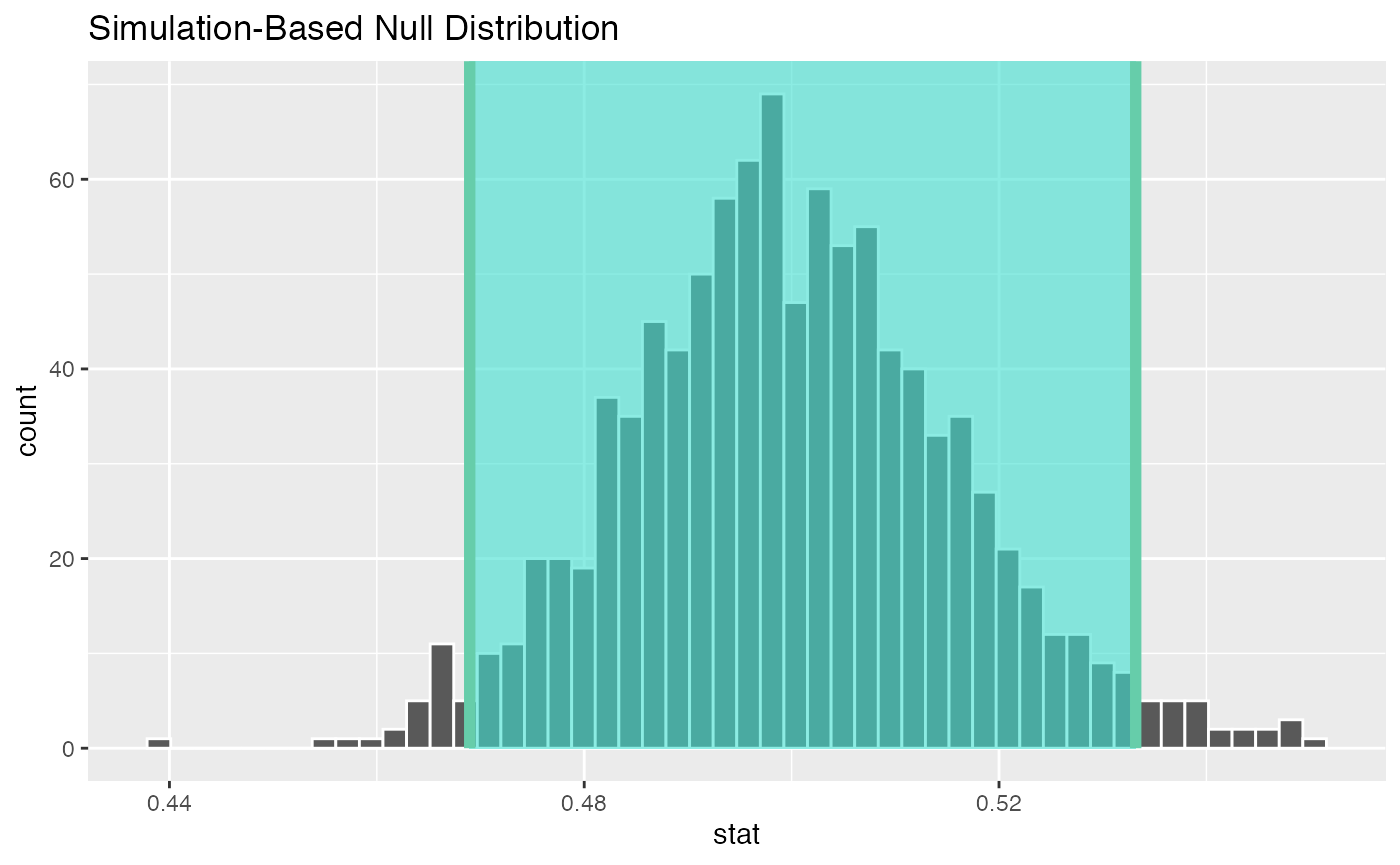
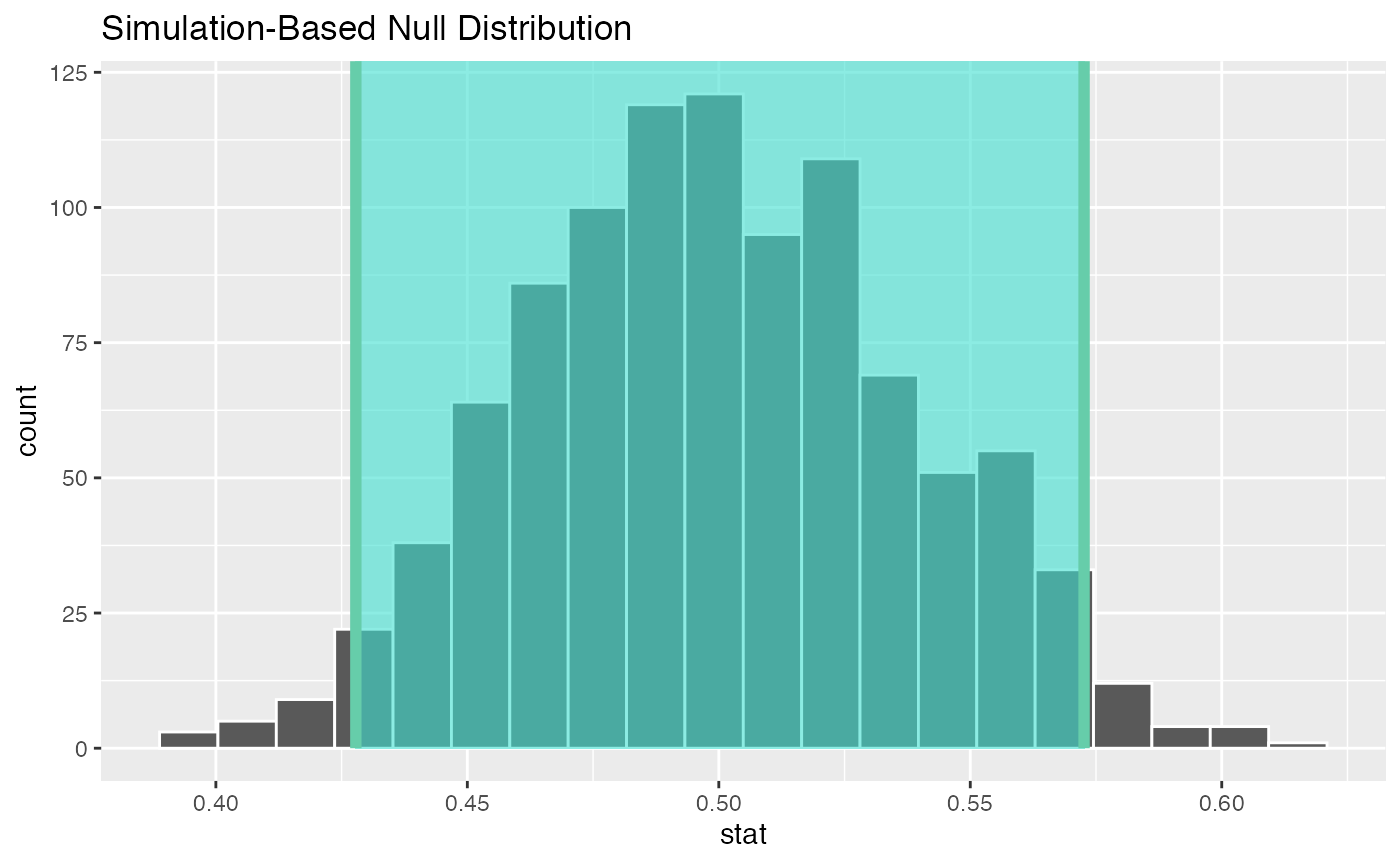
infer to doc

diff --git a/docs/articles/infer.html b/docs/articles/infer.html
@@ -5,13 +5,13 @@
 <meta charset="utf-8">
 <meta http-equiv="X-UA-Compatible" content="IE=edge">
 <meta name="viewport" content="width=device-width, initial-scale=1.0">
-<title>infer • mariatidymodels</title>
+<title>Diving into infer • mariatidymodels</title>
 <!-- jquery --><script src="https://cdnjs.cloudflare.com/ajax/libs/jquery/3.4.1/jquery.min.js" integrity="sha256-CSXorXvZcTkaix6Yvo6HppcZGetbYMGWSFlBw8HfCJo=" crossorigin="anonymous"></script><!-- Bootstrap --><link rel="stylesheet" href="https://cdnjs.cloudflare.com/ajax/libs/twitter-bootstrap/3.4.1/css/bootstrap.min.css" integrity="sha256-bZLfwXAP04zRMK2BjiO8iu9pf4FbLqX6zitd+tIvLhE=" crossorigin="anonymous">
 <script src="https://cdnjs.cloudflare.com/ajax/libs/twitter-bootstrap/3.4.1/js/bootstrap.min.js" integrity="sha256-nuL8/2cJ5NDSSwnKD8VqreErSWHtnEP9E7AySL+1ev4=" crossorigin="anonymous"></script><!-- bootstrap-toc --><link rel="stylesheet" href="../bootstrap-toc.css">
 <script src="../bootstrap-toc.js"></script><!-- Font Awesome icons --><link rel="stylesheet" href="https://cdnjs.cloudflare.com/ajax/libs/font-awesome/5.12.1/css/all.min.css" integrity="sha256-mmgLkCYLUQbXn0B1SRqzHar6dCnv9oZFPEC1g1cwlkk=" crossorigin="anonymous">
 <link rel="stylesheet" href="https://cdnjs.cloudflare.com/ajax/libs/font-awesome/5.12.1/css/v4-shims.min.css" integrity="sha256-wZjR52fzng1pJHwx4aV2AO3yyTOXrcDW7jBpJtTwVxw=" crossorigin="anonymous">
 <!-- clipboard.js --><script src="https://cdnjs.cloudflare.com/ajax/libs/clipboard.js/2.0.6/clipboard.min.js" integrity="sha256-inc5kl9MA1hkeYUt+EC3BhlIgyp/2jDIyBLS6k3UxPI=" crossorigin="anonymous"></script><!-- headroom.js --><script src="https://cdnjs.cloudflare.com/ajax/libs/headroom/0.11.0/headroom.min.js" integrity="sha256-AsUX4SJE1+yuDu5+mAVzJbuYNPHj/WroHuZ8Ir/CkE0=" crossorigin="anonymous"></script><script src="https://cdnjs.cloudflare.com/ajax/libs/headroom/0.11.0/jQuery.headroom.min.js" integrity="sha256-ZX/yNShbjqsohH1k95liqY9Gd8uOiE1S4vZc+9KQ1K4=" crossorigin="anonymous"></script><!-- pkgdown --><link href="../pkgdown.css" rel="stylesheet">
-<script src="../pkgdown.js"></script><meta property="og:title" content="infer">
+<script src="../pkgdown.js"></script><meta property="og:title" content="Diving into infer">
 <meta property="og:description" content="mariatidymodels">
 <!-- mathjax --><script src="https://cdnjs.cloudflare.com/ajax/libs/mathjax/2.7.5/MathJax.js" integrity="sha256-nvJJv9wWKEm88qvoQl9ekL2J+k/RWIsaSScxxlsrv8k=" crossorigin="anonymous"></script><script src="https://cdnjs.cloudflare.com/ajax/libs/mathjax/2.7.5/config/TeX-AMS-MML_HTMLorMML.js" integrity="sha256-84DKXVJXs0/F8OTMzX4UR909+jtl4G7SPypPavF+GfA=" crossorigin="anonymous"></script><!--[if lt IE 9]>
 <script src="https://oss.maxcdn.com/html5shiv/3.7.3/html5shiv.min.js"></script>
@@ -54,7 +54,7 @@
   </a>
   <ul class="dropdown-menu" role="menu">
 <li>
-      <a href="../articles/infer.html">infer</a>
+      <a href="../articles/infer.html">Diving into infer</a>
     </li>
     <li>
       <a href="../articles/rsample.html">rsample</a>
@@ -78,7 +78,7 @@
       </header><script src="infer_files/header-attrs-2.6/header-attrs.js"></script><div class="row">
   <div class="col-md-9 contents">
     <div class="page-header toc-ignore">
-      <h1 data-toc-skip>infer</h1>
+      <h1 data-toc-skip>Diving into infer</h1>
             
       
       
@@ -89,10 +89,54 @@
     
     
 <div class="sourceCode" id="cb1"><pre class="downlit sourceCode r">
-<code class="sourceCode R"><span class="kw"><a href="https://rdrr.io/r/base/library.html">library</a></span><span class="op">(</span><span class="va">mariatidymodels</span><span class="op">)</span></code></pre></div>
+<code class="sourceCode R"><span class="kw"><a href="https://rdrr.io/r/base/library.html">library</a></span><span class="op">(</span><span class="va">mariatidymodels</span><span class="op">)</span>
+<span class="kw"><a href="https://rdrr.io/r/base/library.html">library</a></span><span class="op">(</span><span class="va"><a href="https://dplyr.tidyverse.org">dplyr</a></span><span class="op">)</span>
+<span class="kw"><a href="https://rdrr.io/r/base/library.html">library</a></span><span class="op">(</span><span class="va"><a href="https://github.com/tidymodels/infer">infer</a></span><span class="op">)</span></code></pre></div>
+<div id="exploring-infer" class="section level3">
+<h3 class="hasAnchor">
+<a href="#exploring-infer" class="anchor"></a>Exploring infer</h3>
+<p>The most useful verbs in infer to ply with statistical inference are:</p>
+<ul>
+<li>
+<code><a href="https://infer.tidymodels.org/reference/specify.html">specify()</a></code> specifies the variable, or relationship between variables, of interest</li>
+<li>
+<code><a href="https://infer.tidymodels.org/reference/hypothesize.html">hypothesize()</a></code> declare the null hypothesis. It can be independence of two variables or a mean number.</li>
+<li>
+<code><a href="https://infer.tidymodels.org/reference/generate.html">generate()</a></code> generates resamples</li>
+<li>
+<code><a href="https://infer.tidymodels.org/reference/calculate.html">calculate()</a></code> calculates summary estatistics taking as input from hypothesize() or generate()</li>
+</ul>
+<p>Let’s generate some random datapoints with beta distribution</p>
 <div class="sourceCode" id="cb2"><pre class="downlit sourceCode r">
-<code class="sourceCode R"><span class="fu"><a href="../reference/simulator.html">simulator</a></span><span class="op">(</span><span class="op">)</span></code></pre></div>
+<code class="sourceCode R"><span class="fu"><a href="https://rdrr.io/r/base/Random.html">set.seed</a></span><span class="op">(</span><span class="fl">123</span><span class="op">)</span>
+<span class="va">transcript</span> <span class="op">&lt;-</span> <span class="fu"><a href="https://tibble.tidyverse.org/reference/tibble.html">tibble</a></span><span class="op">(</span>
+    name   <span class="op">=</span> <span class="fu"><a href="https://rdrr.io/r/base/sample.html">sample</a></span><span class="op">(</span><span class="va">letters</span>,<span class="fl">25</span><span class="op">)</span>,
+    cor   <span class="op">=</span> <span class="fu"><a href="https://rdrr.io/r/stats/Beta.html">rbeta</a></span><span class="op">(</span><span class="fl">25</span>,<span class="fl">1</span>,<span class="fl">3</span><span class="op">)</span><span class="op">)</span></code></pre></div>
+<p>Let’s calculate the mean of this distribution</p>
+<div class="sourceCode" id="cb3"><pre class="downlit sourceCode r">
+<code class="sourceCode R"><span class="va">cor_mean</span> <span class="op">&lt;-</span> <span class="va">transcript</span> <span class="op">%&gt;%</span>
+    <span class="fu"><a href="https://infer.tidymodels.org/reference/specify.html">specify</a></span><span class="op">(</span>response <span class="op">=</span> <span class="va">cor</span><span class="op">)</span> <span class="op">%&gt;%</span>
+    <span class="fu"><a href="https://infer.tidymodels.org/reference/calculate.html">calculate</a></span><span class="op">(</span>stat <span class="op">=</span> <span class="st">"mean"</span><span class="op">)</span></code></pre></div>
+<p>The problem at task is to determine which of those correlations is statistically significant.</p>
+<div class="sourceCode" id="cb4"><pre class="downlit sourceCode r">
+<code class="sourceCode R"><span class="va">null_distn</span> <span class="op">&lt;-</span> <span class="va">transcript</span> <span class="op">%&gt;%</span>
+    <span class="fu"><a href="https://infer.tidymodels.org/reference/specify.html">specify</a></span><span class="op">(</span>response <span class="op">=</span> <span class="va">cor</span><span class="op">)</span> <span class="op">%&gt;%</span>
+    <span class="fu"><a href="https://infer.tidymodels.org/reference/hypothesize.html">hypothesize</a></span><span class="op">(</span>null <span class="op">=</span> <span class="st">"point"</span>, mu <span class="op">=</span> <span class="fu"><a href="https://rdrr.io/r/base/numeric.html">as.numeric</a></span><span class="op">(</span><span class="va">cor_mean</span><span class="op">)</span><span class="op">)</span> <span class="op">%&gt;%</span>
+    <span class="fu"><a href="https://infer.tidymodels.org/reference/generate.html">generate</a></span><span class="op">(</span>reps <span class="op">=</span> <span class="fl">1000</span>, type <span class="op">=</span> <span class="st">"bootstrap"</span><span class="op">)</span> <span class="op">%&gt;%</span>
+    <span class="fu"><a href="https://infer.tidymodels.org/reference/calculate.html">calculate</a></span><span class="op">(</span>stat <span class="op">=</span> <span class="st">"mean"</span><span class="op">)</span></code></pre></div>
+<p>We can get the confidence interval for a given ⍺ level.</p>
+<div class="sourceCode" id="cb5"><pre class="downlit sourceCode r">
+<code class="sourceCode R"><span class="va">percentile_ci</span> <span class="op">&lt;-</span> <span class="fu"><a href="https://infer.tidymodels.org/reference/get_confidence_interval.html">get_confidence_interval</a></span><span class="op">(</span><span class="va">null_distn</span>, level <span class="op">=</span> <span class="fl">0.95</span><span class="op">)</span></code></pre></div>
+<p>We can visualise those results with a nice ggplot object</p>
+<div class="sourceCode" id="cb6"><pre class="downlit sourceCode r">
+<code class="sourceCode R"><span class="fu"><a href="https://infer.tidymodels.org/reference/visualize.html">visualize</a></span><span class="op">(</span><span class="va">null_distn</span>,bins <span class="op">=</span> <span class="fl">20</span><span class="op">)</span> <span class="op">+</span>
+    <span class="fu"><a href="https://infer.tidymodels.org/reference/shade_confidence_interval.html">shade_confidence_interval</a></span><span class="op">(</span>endpoints <span class="op">=</span> <span class="va">percentile_ci</span><span class="op">)</span></code></pre></div>
+<p><img src="infer_files/figure-html/unnamed-chunk-5-1.png" width="700"></p>
+<p>My little wrapper for this particular task</p>
+<div class="sourceCode" id="cb7"><pre class="downlit sourceCode r">
+<code class="sourceCode R"><span class="fu"><a href="../reference/simulator.html">simulator</a></span><span class="op">(</span>numer<span class="op">=</span><span class="fl">25</span>, bins<span class="op">=</span><span class="fl">20</span><span class="op">)</span></code></pre></div>
 <p><img src="infer_files/figure-html/simulate-1.png" width="700"></p>
+</div>
   </div>
 
   <div class="col-md-3 hidden-xs hidden-sm" id="pkgdown-sidebar">

diff --git a/docs/index.html b/docs/index.html
@@ -55,7 +55,7 @@
   </a>
   <ul class="dropdown-menu" role="menu">
 <li>
-      <a href="articles/infer.html">infer</a>
+      <a href="articles/infer.html">Diving into infer</a>
     </li>
     <li>
       <a href="articles/rsample.html">rsample</a>
@@ -78,9 +78,22 @@
 
       </header><div class="row">
   <div class="contents col-md-9">
-<div id="mariatidymodels" class="section level1">
+<div id="mariatidymodels-r" class="section level1">
 <div class="page-header"><h1 class="hasAnchor">
-<a href="#mariatidymodels" class="anchor"></a>mariatidymodels</h1></div>
+<a href="#mariatidymodels-r" class="anchor"></a>mariatidymodels R</h1></div>
+<p>The objective of this package is to have a sandbox to explore and create my own functions around <code>tidymodels</code> framework and documented with <code>pkgdown</code> and github pages.</p>
+<div id="how-i-created-this-project" class="section level3">
+<h3 class="hasAnchor">
+<a href="#how-i-created-this-project" class="anchor"></a>How I created this project</h3>
+<ol>
+<li>I started a new project (<a href="https://happygitwithr.com/new-github-first.html">GitHub first</a>)</li>
+<li>I cloned my project using <a href="https://happygitwithr.com/new-github-first.html">GitHub Desktop</a>
+</li>
+<li>I set up <a href="https://www.youtube.com/watch?v=5C7-fYyjLH0">pkgdown</a> with Github pages.</li>
+<li>
+<span class="emoji" data-emoji="rocket">🚀</span> Ready to go!</li>
+</ol>
+</div>
 </div>
   </div>
 

diff --git a/docs/reference/index.html b/docs/reference/index.html
@@ -94,7 +94,7 @@
   </a>
   <ul class="dropdown-menu" role="menu">
     <li>
-      <a href="../articles/infer.html">infer</a>
+      <a href="../articles/infer.html">Diving into infer</a>
     </li>
     <li>
       <a href="../articles/rsample.html">rsample</a>
@@ -144,12 +144,6 @@
       
       
       <tr>
-        
-        <td>
-          <p><code><a href="hello.html">hello()</a></code> </p>
-        </td>
-        <td><p>Hello, World!</p></td>
-      </tr><tr>
         
         <td>
           <p><code><a href="simulator.html">simulator()</a></code> </p>

diff --git a/docs/articles/index.html b/docs/articles/index.html
@@ -94,7 +94,7 @@
   </a>
   <ul class="dropdown-menu" role="menu">
     <li>
-      <a href="../articles/infer.html">infer</a>
+      <a href="../articles/infer.html">Diving into infer</a>
     </li>
     <li>
       <a href="../articles/rsample.html">rsample</a>
@@ -128,7 +128,7 @@
       <p class="section-desc"></p>
 
       <dl>
-        <dt><a href="infer.html">infer</a></dt>
+        <dt><a href="infer.html">Diving into infer</a></dt>
         <dd></dt>
         <dt><a href="rsample.html">rsample</a></dt>
         <dd></dt>

diff --git a/docs/news/index.html b/docs/news/index.html
@@ -94,7 +94,7 @@
   </a>
   <ul class="dropdown-menu" role="menu">
     <li>
-      <a href="../articles/infer.html">infer</a>
+      <a href="../articles/infer.html">Diving into infer</a>
     </li>
     <li>
       <a href="../articles/rsample.html">rsample</a>

diff --git a/docs/reference/simulator.html b/docs/reference/simulator.html
@@ -95,7 +95,7 @@
   </a>
   <ul class="dropdown-menu" role="menu">
     <li>
-      <a href="../articles/infer.html">infer</a>
+      <a href="../articles/infer.html">Diving into infer</a>
     </li>
     <li>
       <a href="../articles/rsample.html">rsample</a>

diff --git a/docs/articles/rsample.html b/docs/articles/rsample.html
@@ -54,7 +54,7 @@
   </a>
   <ul class="dropdown-menu" role="menu">
 <li>
-      <a href="../articles/infer.html">infer</a>
+      <a href="../articles/infer.html">Diving into infer</a>
     </li>
     <li>
       <a href="../articles/rsample.html">rsample</a>

diff --git a/docs/404.html b/docs/404.html
@@ -94,7 +94,7 @@
   </a>
   <ul class="dropdown-menu" role="menu">
     <li>
-      <a href="articles/infer.html">infer</a>
+      <a href="articles/infer.html">Diving into infer</a>
     </li>
     <li>
       <a href="articles/rsample.html">rsample</a>

diff --git a/docs/authors.html b/docs/authors.html
@@ -94,7 +94,7 @@
   </a>
   <ul class="dropdown-menu" role="menu">
     <li>
-      <a href="articles/infer.html">infer</a>
+      <a href="articles/infer.html">Diving into infer</a>
     </li>
     <li>
       <a href="articles/rsample.html">rsample</a>
